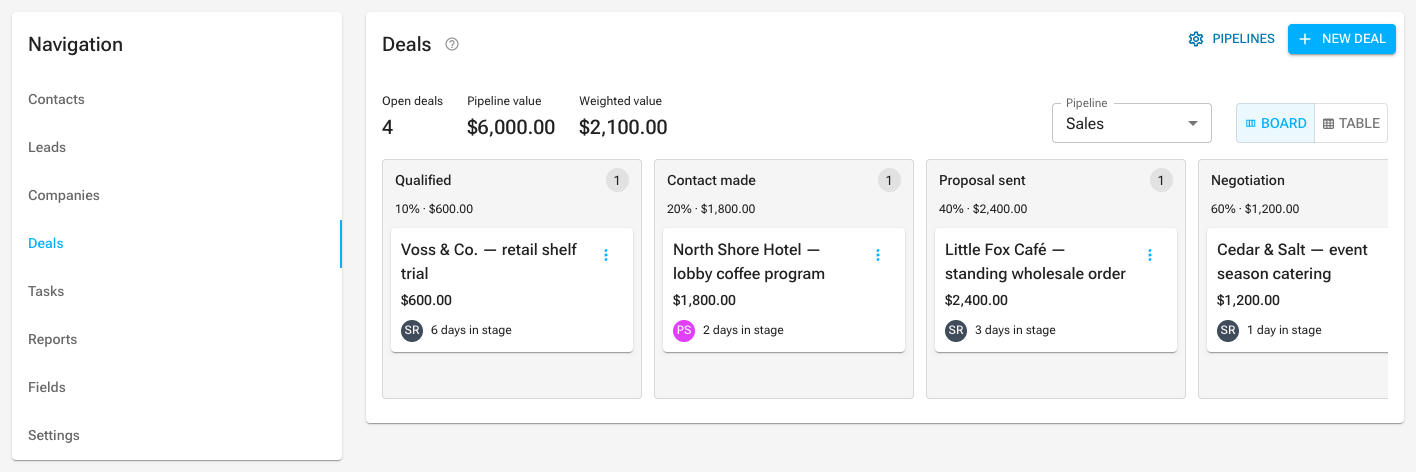
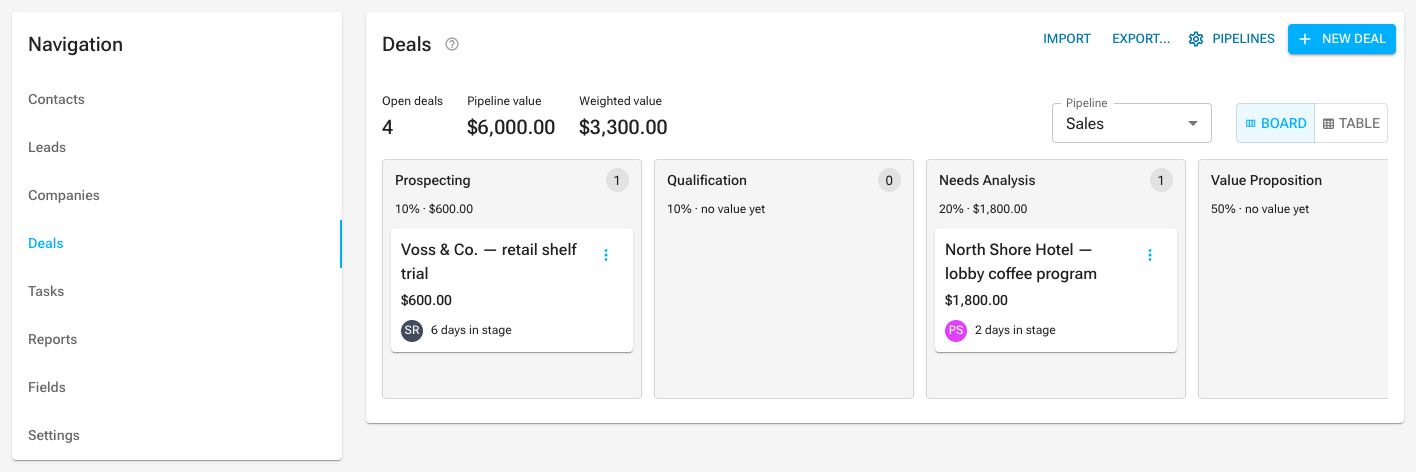
docs(crm): the deals board, reports and contact record show today's stages and fields (AGL-3562)
The CRM docs screenshots were captured before AGL-3516 renamed the deal
stages and AGL-3510-3528 brought Salesforce's fields to every record, so the
manual pictured Qualified, Contact made, Proposal sent and Negotiation. Re-
captured from the seeded emulator stack with capture-docs-screenshots.mjs:

- crm-deals-board: Prospecting, Qualification, Needs Analysis and Value
  Proposition, with Import and Export... beside Pipelines and New deal.
- crm-reports: the Pipeline card's stages from Prospecting on, with its
  Export CSV and stuck-deals figure.
- crm-record: the Sharing card under the header, and Properties opening on
  its Contact information group (Salutation, First and Last name,
  Department).

crm-contacts re-captured byte-identical: it already showed today's Import,
Export... and bulk bar.

The docs fixtures now give each reserved .example domain an MX answer in
the platform's mailDomains cache. A reserved domain has no DNS, so the
AGL-3328 check read Maya's address as undeliverable and the record frame
drew "No MX record - cannot receive mail" beside a customer with twelve
orders.

The captions name what each frame shows; contact-record.md lists the
Sharing card among the record's cards, and deals.md says a board wider than
the window scrolls sideways. The Linear ceiling rises to AGL-3562.

diff --git a/libs/aglyn/src/lib/app-utils/docs-index.generated.ts b/libs/aglyn/src/lib/app-utils/docs-index.generated.ts
@@ -575,7 +575,7 @@ export const DOCS_SECTION_INDEX: readonly DocsSection[] = [
   { path: '/content-and-data/crm/companies', title: 'Companies', heading: 'Related', anchor: '#related', text: '- CRM overview\n- The contact record — the people a company is made of\n- CRM settings — whether a capture creates the company it could not find\n- Deals pipeline — every deal names the company it is with\n- Email campaigns — audiences built from a rule can target a contact\'s company\n- REST API — companies' },
   { path: '/content-and-data/crm/contact-record', title: 'The contact record', heading: '', anchor: '', text: 'The contact record\nEvery person in your CRM has a record: the email that identifies them, the profile your team keeps on them, where they came from, what they are filed under, and what the site recorded about them. You can add a person by hand, and edit every part of that profile from their own page.\nPlan availability The contact record is part of the CRM, included from Starter: reading a contact, adding one by hand, and every edit to one — their name, phone, job title and address, tags and notes, owner, lifecycle stage and company, custom fields, tasks, deals, files, logged calls and activities, one-to-one email and merging two records. On Free the Contacts section is shown locked, with the rest of the CRM. The people your sites capture are still kept, and workspace owners and admins can export them, or erase a person, from Settings → Privacy. See What each plan includes.' },
   { path: '/content-and-data/crm/contact-record', title: 'The contact record', heading: 'Adding a contact by hand', anchor: '#adding-a-contact-by-hand', text: 'Open CRM → Contacts and choose New contact. A drawer opens over the list — the list itself stays exactly where it was.\n| Field | Notes |\n| Email | Required. It is the one thing every site shares about a person and what makes two captures one record. |\n| Salutation | Optional. One of your organization\'s salutations — Mr., Ms., Mrs., Dr. and Prof. to start with; add your own under CRM → Fields → Contacts. |\n| First name, Last name | Optional. While either is filled in, the Name is made of them and cannot be typed separately. |\n| Name | Optional. Your own name for the person when you keep it as one field; the record also keeps the name they gave on a form. |\n| Phone, Mobile phone | Entered with the country code, like +1 512 555 0107. Stored in E.164 so the same number typed two ways is one number. |\n| Do not call | Tick it when the person asked not to be phoned. It is a warning, not a block — see Do not call. |\n| Job title, Department | Free text. |\n| Company | A picker over the companies your site may see. Type to search by name or domain; a name nobody has filed yet gets a Create row that makes the company and selects it. Once the email is typed, a company whose domain matches it is suggested beneath the field — offered, never applied. Leave it empty for no company. |\n| Lifecycle stage | Where the person sits in your funnel; see Lifecycle stages. |\n| Owner | The team member responsible for the relationship, picked from your workspace roster. |\n| Tags | Comma-separated. Tags are lower-cased and deduplicated, so VIP and vip are one tag. |\n| Mailing address | Street, city, state or region, postal code and a two-letter country code. |\n| Opted in to marketing email | Tick it only if the person actually agreed. Adding a contact is never itself consent, and the checkbox says so' },
-  { path: '/content-and-data/crm/contact-record', title: 'The contact record', heading: 'The record page', anchor: '#the-record-page', text: 'Clicking a row in the list opens the person\'s own page at …/crm/contacts/{id} — an address you can paste and that every other CRM record links to. The page opens with the person\'s name, their lifecycle stage, their owner, when they last engaged with one of your campaigns, and — for a buyer — how many orders they have placed and what they have spent; the order count is a link to the site\'s orders list narrowed to the person\'s address. When a sender has given a verdict on the address — a bounce, a gateway block, an unsubscribe, a spam complaint, a do-not-contact mark — or the address\'s domain has no mail server (Would bounce), it leads the chip row, with the date and the server\'s words on hover, and Send email is disabled with the reason; the Contacts list carries the same verdict in its Email column and filter. Beside it, a chip names the mail gateway in front of the address, when its domain names one. It is the lead\'s email state, on the contact the lead became or was always. Beside Send email it carries Call, which dials the person\'s number, and Log a call — see click to call. Under it, one card per aspect of the record:\n- Properties — the editable profile, grouped the way Salesforce groups a contact\'s details — see The standard fields — then an About box for your team\'s notes, then under More fields one control per custom field your organization has defined. One Save, in the card\'s header, writes everything at once, and Discard changes beside it puts back what you had not saved. The email is shown but cannot be edited here, because it is the shared identity. The Company field is the same picker the New contact drawer has: search the companies your site may see, create one by typing its name, or clear the field to unlink the person. A record that carries a company name' },
+  { path: '/content-and-data/crm/contact-record', title: 'The contact record', heading: 'The record page', anchor: '#the-record-page', text: 'Clicking a row in the list opens the person\'s own page at …/crm/contacts/{id} — an address you can paste and that every other CRM record links to. The page opens with the person\'s name, their lifecycle stage, their owner, when they last engaged with one of your campaigns, and — for a buyer — how many orders they have placed and what they have spent; the order count is a link to the site\'s orders list narrowed to the person\'s address. When a sender has given a verdict on the address — a bounce, a gateway block, an unsubscribe, a spam complaint, a do-not-contact mark — or the address\'s domain has no mail server (Would bounce), it leads the chip row, with the date and the server\'s words on hover, and Send email is disabled with the reason; the Contacts list carries the same verdict in its Email column and filter. Beside it, a chip names the mail gateway in front of the address, when its domain names one. It is the lead\'s email state, on the contact the lead became or was always. Beside Send email it carries Call, which dials the person\'s number, and Log a call — see click to call. Under it, one card per aspect of the record:\n- Sharing — the site that holds the person and every other site the record is shared with, and why, with Share with sites… in the card\'s header — see Share records across sites.\n- Properties — the editable profile, grouped the way Salesforce groups a contact\'s details — see The standard fields — then an About box for your team\'s notes, then under More fields one control per custom field your organization has defined. One Save, in the card\'s header, writes everything at once, and Discard changes beside it puts back what you had not saved. The email is shown but cannot be edited here, because it is the shared identity. The Company field is the same picke' },
   { path: '/content-and-data/crm/contact-record', title: 'The contact record', heading: 'Deleting and erasing', anchor: '#deleting-and-erasing', text: 'Delete contact removes the person from this site\'s CRM — its notes, tags and timeline. Other sites in your workspace that captured the same person keep their own records, and the person\'s form submissions, orders, bookings and membership records are separate and are deleted from their own pages. It is a housekeeping act, and it is not a privacy erasure.\nWhen no other site holds the person, the record itself is deleted, and what pointed at it is tidied in the same act: every other contact\'s Reports to that named them is cleared, on every site, and the person is taken off every deal\'s contact roles — a deal whose Primary they were is left with none. When other sites still hold the person, your site lets go of them, and the Reports to of your site\'s contacts that named them is cleared; the other sites\' are not. The same happens for a contact deleted over the REST API.\nDeleting a contact does not forget that they turned down your marketing email. If the person said no to email from a site, that answer is kept after the record is gone, and adding their address to an email list is still refused, even when you confirm you have permission. It stops applying only when the person opts in again themselves, for example through one of your forms.\nErase this person is the privacy erasure — what you use when someone asks to be forgotten under GDPR, the CCPA or any similar law. It removes the person from every site in the workspace, whoever captured them, and it cannot be undone. Only a workspace admin or owner can do it; for everyone else the item is present but disabled, and its tooltip says who can. It is offered on a site\'s hub and on the organization\'s alike. The same erasure can be filed by address, without opening a record, from Settings → Privacy — on every plan, including Free' },
   { path: '/content-and-data/crm/contact-record', title: 'The contact record', heading: 'What each site keeps to itself', anchor: '#what-each-site-keeps-to-itself', text: 'A contact document is shared by every site in your workspace — one human who touched two of your sites is one row. Almost nothing on it is shared: the notes, tags, timeline, phones, title, department, company, addresses, birthdate, assistant, manager, owner and stage are one sender\'s knowledge of the person and are never shown to another sender\'s console. A sender is one site, or, where your organization has declared several sites one sender, the whole group, which keeps one record for everyone its sites have met. The email and the name the person gave are the only shared identity.\nWhen sites join or leave a group {#when-sites-join-or-leave-a-group}\nChanging a consent group moves these records with it, once the new group has taken effect:\n- Sites that join have their records of the same person combined into one. Where two records disagree about a single value — the owner, the stage, the company — the group\'s is kept, or, for a new group, the one from the site that met the person first. Tags and other lists are combined, notes are kept end to end, the earliest and latest dates are kept, and figures such as order totals are added together.\n- A site that leaves gets a copy of the group\'s record for each person it met itself, with the timeline entries from that site. The group keeps its record. The copy carries the person\'s order totals only when the leaving site is the only one that captured them; otherwise the totals stay with the group.\n- Dissolving a group gives each site a copy on the same terms. Order totals for someone who bought on more than one of the group\'s sites can\'t be split, so they are removed.\n- Company links, and each company\'s count of contacts, are recalculated as records move.\nThe review before the change counts how many people each of these affects. Wh' },
   { path: '/content-and-data/crm/contact-record', title: 'The contact record', heading: 'Merging two records', anchor: '#merging-two-records', text: 'A contact is one record per email address, so the same person cannot be captured twice under one address — but one human with a work address and a personal one is two records, with tags, deals, tasks and a timeline split between them. Merge into…, in the overflow menu on either record, folds the two into one.\nThe dialog first finds the other record — type an email address for an exact match, or a name to search among the contacts your site may see — and then shows the two side by side, field by field, with the value the kept record will carry. Pick which record to keep; the other is merged into it and deleted. At the organization level the search spans every site and a record no site captured merges too. The rule is the same for every field:\n| What | After the merge |\n| Phones, salutation, job title, department, company, stage, owner, addresses, birthdate, assistant, reports to, custom fields | The kept record\'s value where it has one; an empty field fills from the other record. Nothing the kept record holds is overwritten. |\n| Reports to naming either of the two records | Nobody: after the merge it would name the person themselves. The preview says so. |\n| Name, first name and last name | Taken together, as one value: from the kept record when it names the person at all, and from the other record only when it does not. |\n| Do not call | Stands if either record has it. |\n| Tags, campaign filings | Combined. |\n| Timeline | Combined and ordered, newest first. The other record\'s calls, notes and logged activities move across too. |\n| Notes | The other record\'s notes are added below the kept record\'s. |\n| Orders and lifetime value | Added together — two records of one person\'s purchases are one person\'s purchases. |\n| Deals, tasks, activities, and a converted lead | Repoint' },
@@ -598,7 +598,7 @@ export const DOCS_SECTION_INDEX: readonly DocsSection[] = [
   { path: '/content-and-data/crm/custom-fields', title: 'Custom fields', heading: 'Related', anchor: '#related', text: '- CRM overview\n- The contact record — the fixed properties custom fields sit beside\n- Companies, deals and leads — the other records that carry them\n- Leads — where the lead source values are picked\n- Import contacts and companies — every custom field is an import target, and an export column\n- Forms & lead capture\n- REST API — contacts, companies, deals, leads' },
   { path: '/content-and-data/crm/deals', title: 'Deals pipeline', heading: '', anchor: '', text: 'Deals pipeline\nDeals is the sales pipeline inside the CRM: one card per opportunity, moving through the stages your business sells in. Open it at …/hosts/{site}/crm/deals; a single deal has its own page at …/crm/deals/{id}.\nPlan availability Deals are part of the CRM, included from Starter. On Free the section is shown locked, with the rest of the CRM. A deal is a CRM record, counted with contacts and companies against your plan\'s records band — see CRM records.' },
   { path: '/content-and-data/crm/deals', title: 'Deals pipeline', heading: 'Pipelines', anchor: '#pipelines', text: 'Every workspace on a plan with the CRM starts with one pipeline, Sales. A new pipeline starts with Salesforce\'s standard Opportunity stages:\n| Stage | Probability | Forecast category |\n| Prospecting | 10% | Pipeline |\n| Qualification | 10% | Pipeline |\n| Needs Analysis | 20% | Pipeline |\n| Value Proposition | 50% | Pipeline |\n| Id. Decision Makers | 60% | Pipeline |\n| Perception Analysis | 70% | Pipeline |\n| Proposal/Price Quote | 75% | Best Case |\n| Negotiation/Review | 90% | Commit |\n| Closed Won | 100% | Closed |\n| Closed Lost | 0% | Omitted |\nThe pipeline is created the first time somebody opens the Deals section, so there is nothing to set up before the first deal. A pipeline created before these stages became the default keeps the stages it has; nothing is changed for you.\nA business that sells more than one way — new accounts and renewals, retail and wholesale — can run more than one pipeline, each with its own stages and its own board. Open Pipelines on the Deals section to:\n- Create a pipeline. Give it a name; it starts with the default stages, which you can then edit. Names are unique among the active pipelines.\n- Rename a pipeline.\n- Set as default. New deals land in the default pipeline unless the New deal drawer picks another; there is always exactly one default.\n- Archive a pipeline that holds no open deal. The default pipeline and the last active one cannot be archived; close or move the open deals first. An archived pipeline is never deleted — the deals it closed still show their stages — and can be restored later.\n- Edit stages of a pipeline (below).\nWhen there is more than one active pipeline, a pipeline switcher appears in the section header. The board, the table, the three figures above them and the New deal drawer all follow it.\nStages\nEach stage ca' },
-  { path: '/content-and-data/crm/deals', title: 'Deals pipeline', heading: 'The board and the table', anchor: '#the-board-and-the-table', text: 'The section opens as a board of the chosen pipeline: one column per open stage, with Won and Lost folded away at the end until you expand them. Each card shows the deal\'s title, amount, the contact and company it is with, its owner, and how many days it has sat in its current stage. Drag a card between columns to move it, or use the card\'s menu to move it, mark it won, or mark it lost from the keyboard.\nAbove the board, three figures summarize what is open: the open count, the pipeline value (every open deal\'s amount, per currency) and the weighted value (each amount multiplied by its probability — the deal\'s own when it has one, otherwise its stage\'s).\nSwitch to the table for a paged list with the title, stage, amount, owner, expected close date, status and next activity of every deal in the chosen pipeline, including the closed ones, most recently changed first. Type and Lead source are optional columns: turn them on from the column menu. The table\'s Filters panel narrows it by Status (open, won or lost — one, or any of them), by Type and by Lead source (one value, any of several, or No type / No lead source), and Next activity › is empty keeps only the deals with no open task scheduled against them — the ones the reports page counts as stuck. Search finds a deal by any word of its title.\nEvery filter and the search are answered by the table\'s query, so they reach every deal in the pipeline, a page at a time, not only the page on screen, and filters on different columns add up. The search matches whole words from their start — "cof" finds Coffee, a fragment from the middle of a word does not — one word at a time: type several and it searches the first, and says so. Under a site, a member whose access is limited to particular sites searches by the start of a deal\'s tit' },
+  { path: '/content-and-data/crm/deals', title: 'Deals pipeline', heading: 'The board and the table', anchor: '#the-board-and-the-table', text: 'The section opens as a board of the chosen pipeline: one column per open stage, with Won and Lost folded away at the end until you expand them; a board wider than the window scrolls sideways. Each card shows the deal\'s title, amount, the contact and company it is with, its owner, and how many days it has sat in its current stage. Drag a card between columns to move it, or use the card\'s menu to move it, mark it won, or mark it lost from the keyboard.\nAbove the board, three figures summarize what is open: the open count, the pipeline value (every open deal\'s amount, per currency) and the weighted value (each amount multiplied by its probability — the deal\'s own when it has one, otherwise its stage\'s).\nSwitch to the table for a paged list with the title, stage, amount, owner, expected close date, status and next activity of every deal in the chosen pipeline, including the closed ones, most recently changed first. Type and Lead source are optional columns: turn them on from the column menu. The table\'s Filters panel narrows it by Status (open, won or lost — one, or any of them), by Type and by Lead source (one value, any of several, or No type / No lead source), and Next activity › is empty keeps only the deals with no open task scheduled against them — the ones the reports page counts as stuck. Search finds a deal by any word of its title.\nEvery filter and the search are answered by the table\'s query, so they reach every deal in the pipeline, a page at a time, not only the page on screen, and filters on different columns add up. The search matches whole words from their start — "cof" finds Coffee, a fragment from the middle of a word does not — one word at a time: type several and it searches the first, and says so. Under a site, a member whose access is limited to partic' },
   { path: '/content-and-data/crm/deals', title: 'Deals pipeline', heading: 'Import and export', anchor: '#import-from-csv', text: 'Import in the card\'s header takes a file of deals — a Salesforce opportunities report, a HubSpot or Pipedrive export, a forecast sheet — through the import wizard: every column matched to a field, a dry run that shows what each row will do, a choice for every conflict, and undo for seven days. Importing needs the same Manage data permission as creating a deal.\nA row finds its deal by Aglyn ID or by its External ID — the id the deal had in the product it came from (Salesforce\'s Opportunity ID, HubSpot\'s Record ID) — so importing the same file again updates those deals rather than filing them twice.\n| Field | What is read |\n| Deal name | Required for a new deal. |\n| External ID | Kept on the deal; what a later import finds it by. |\n| Pipeline, Stage | By name. Empty, the default pipeline and its first open stage. A name the workspace has no pipeline or stage for fails that row, named in the results. A new deal filed into Won or Lost is closed on arrival. A matched deal\'s pipeline and stage are never moved by a file: a stage moves on the board, where the move tells your automations. |\n| Amount | An amount with its currency ($1,250, 1250 EUR); US dollars when none is named. |\n| Expected close | A calendar day. |\n| Contact | A contact by email — the deal\'s Primary contact role. |\n| Company | A company by its domain or name; one your CRM does not hold can be created. |\n| Contact roles | Each contact by email with their role in parentheses, the Primary first: ana@acme.com (Decision Maker); bo@acme.com. |\n| Owner | A member of your workspace, by email or name. |\n| Type, Lead source | Your organization\'s values, by label; a new deal with no Type takes the list\'s default. |\n| Next step, Lost reason, Notes | Text. |\n| Probability, Forecast category | A percent from 0 to 100; Omitt' },
   { path: '/content-and-data/crm/deals', title: 'Deals pipeline', heading: 'Creating a deal', anchor: '#creating-a-deal', text: 'New deal opens a drawer. A deal needs only a title; everything else is optional:\n| Field | What it is |\n| Pipeline and stage | Where the deal starts. The pipeline list holds every active pipeline and opens on the one the board is showing; the stage defaults to its first open stage. |\n| Amount and currency | What the deal is worth. Currency defaults to US dollars; the amount is stored in minor units, so 1,250.00 is exact. On a deal with line items the amount is their sum and is read-only here. |\n| Expected close | The date you expect to close it — what a forecast by month reads. |\n| Owner | The teammate responsible. Picked from your workspace\'s members. |\n| Contact | The person the deal is with, searched by name or email from your contacts — the deal\'s Primary contact role. Picking another makes them Primary. |\n| Company | The organization, searched by name from your companies. |\n| Type | Salesforce\'s Type: New Business, Existing Business, or one of your own — see Type and lead source. A new deal with none takes the list\'s default, when it has one. |\n| Lead source | Where the deal came from — the same list a lead\'s lead source is picked from. |\n| Next step | What happens next, up to 255 characters. |\n| Probability | This deal\'s own chance of closing, a whole percent. Leave it blank to use the stage\'s, which the field shows as From stage: N%. |\n| Forecast category | Where the deal is forecast. From the stage uses the stage\'s category. |\n| Campaign | The campaign the deal is attributed to — Salesforce\'s Primary Campaign Source — one of the campaigns your leads are filed under. |\n| Notes | Anything the card cannot carry. |\nA deal is visible to the same sites as a contact captured on this site would be, so a site that cannot see the person cannot see the deal.\nType and lead ' },
   { path: '/content-and-data/crm/deals', title: 'Deals pipeline', heading: 'Contact roles', anchor: '#contact-roles', text: 'A deal can name more than one person: Salesforce\'s Opportunity Contact Roles. The Contact roles card on a deal\'s page lists every contact on the deal, the part each plays, and which one is Primary:\n- Add contact (in the card\'s header) opens a dialog: pick a contact, a role, and whether they are the Primary. The first contact on a deal is always its Primary.\n- Each row\'s Role select changes the part they play; Make primary moves the Primary to them; the remove button takes them off the deal.\nA deal names up to 50 contacts, each once, and at most one is Primary.\nThe Primary is the deal\'s contact. The Contact field of the deal drawer, the email button on the deal\'s page, the CSV\'s Contact column, the won-deal customer floor and the REST contactId all read the Primary. Picking a contact in the drawer makes them Primary — adding them with no role when the deal did not name them — and clearing it leaves the deal with no Primary. A deal created before contact roles reads as its one contact, Primary, with no role.\nThe roles are a picklist with Salesforce\'s standard values: Business User, Decision Maker, Economic Buyer, Economic Decision Maker, Evaluator, Executive Sponsor, Influencer, Technical Buyer and Other. Add your own, rename, reorder or deactivate them on the Deals tab of Custom fields; a rename moves every deal that holds the role, and a contact keeps a role after it is deactivated.\nWhere else contact roles appear:\n- A contact\'s page lists the deals the person is on in any role, with the role beside each. A teammate whose access is limited to some sites sees the deals that name the person as Primary.\n- Converting a lead with a deal makes the converted contact the deal\'s Primary, with no role yet.\n- Merging two contacts moves the merged person\'s roles to the survivor; on' },

diff --git a/apps/docs/docs/content-and-data/crm/contact-record.md b/apps/docs/docs/content-and-data/crm/contact-record.md
@@ -23,7 +23,7 @@ a person, from
 See [What each plan includes](./overview.md#what-each-plan-includes).
 :::
 
-![A contact record in the CRM: the header with the person's email, stage, owner and lifetime orders beside Add to list, Call, Log a call, Send email and Book a meeting, and the Properties card below it](/img/contacts/crm-record.png)
+![A contact record in the CRM: the header with the person's email, stage, owner and lifetime orders beside Back to contacts, Add to list, Call, Log a call, Send email and Book a meeting, then the Sharing card naming the site that holds the contact beside Share with sites…, and the Properties card opening on its Contact information group: Email, Salutation, First name, Last name, Name, Job title, Department, Company, Lead source, Lifecycle stage, Owner and Tags](/img/contacts/crm-record.png)
 
 ## Adding a contact by hand
 
@@ -79,6 +79,9 @@ person's number, and **Log a call** — see
 [click to call](./activities.md#click-to-call). Under it, one card per aspect
 of the record:
 
+- **Sharing** — the site that holds the person and every other site the
+  record is shared with, and why, with **Share with sites…** in the card's
+  header — see [Share records across sites](./sharing.md#what-a-shared-record-looks-like).
 - **Properties** — the editable profile, grouped the way Salesforce groups a
   contact's details — see [The standard fields](#the-standard-fields) — then an
   **About** box for your team's notes, then under **More fields** one control per

diff --git a/apps/docs/docs/content-and-data/crm/deals.md b/apps/docs/docs/content-and-data/crm/deals.md
@@ -26,7 +26,7 @@ flowchart LR
   N --> L[Closed Lost]
 ```
 
-![The Deals section of the CRM: the pipeline board with a column per open stage, the open deals, pipeline value and weighted value above them, and the Pipeline picker beside the Board and Table toggle](/img/contacts/crm-deals-board.png)
+![The Deals section of the CRM: Import, Export…, Pipelines and New deal in the card's header, the open deals, pipeline value and weighted value above the board, the Pipeline picker beside the Board and Table toggle, and the board's first columns, Prospecting, Qualification, Needs Analysis and Value Proposition, with the rest of the open stages to the right](/img/contacts/crm-deals-board.png)
 
 ## Pipelines
 
@@ -95,7 +95,8 @@ category reads as **Pipeline**.
 ## The board and the table
 
 The section opens as a **board** of the chosen pipeline: one column per open
-stage, with Won and Lost folded away at the end until you expand them. Each card shows the deal's title,
+stage, with Won and Lost folded away at the end until you expand them; a board wider than the window
+scrolls sideways. Each card shows the deal's title,
 amount, the contact and company it is with, its owner, and how many days it has
 sat in its current stage. **Drag a card** between columns to move it, or use the
 card's menu to move it, mark it won, or mark it lost from the keyboard.

diff --git a/apps/docs/docs/content-and-data/crm/reports.md b/apps/docs/docs/content-and-data/crm/reports.md
@@ -12,7 +12,7 @@ same records the other sections list — a report can never count a contact,
 deal or task the reader could not open — and most of them are counted by the
 database rather than downloaded, so the page stays quick on a large CRM.
 
-![The Reports section of the CRM: the period toggle, the Contacts card with new contacts by week, the Pipeline card with open deals, pipeline value and weighted forecast by stage, and the Sources and lifecycle card with contacts by source and the lifecycle funnel](/img/contacts/crm-reports.png)
+![The Reports section of the CRM: the period toggle, the Contacts card with new contacts by week, the Pipeline card with Export CSV in its header, the open deals, pipeline value, weighted forecast and stuck deals, then each pipeline's stages from Prospecting on with their deals and weighted value, and the Sources and lifecycle card with contacts by source and the lifecycle funnel](/img/contacts/crm-reports.png)
 
 ## Choosing a period
 
